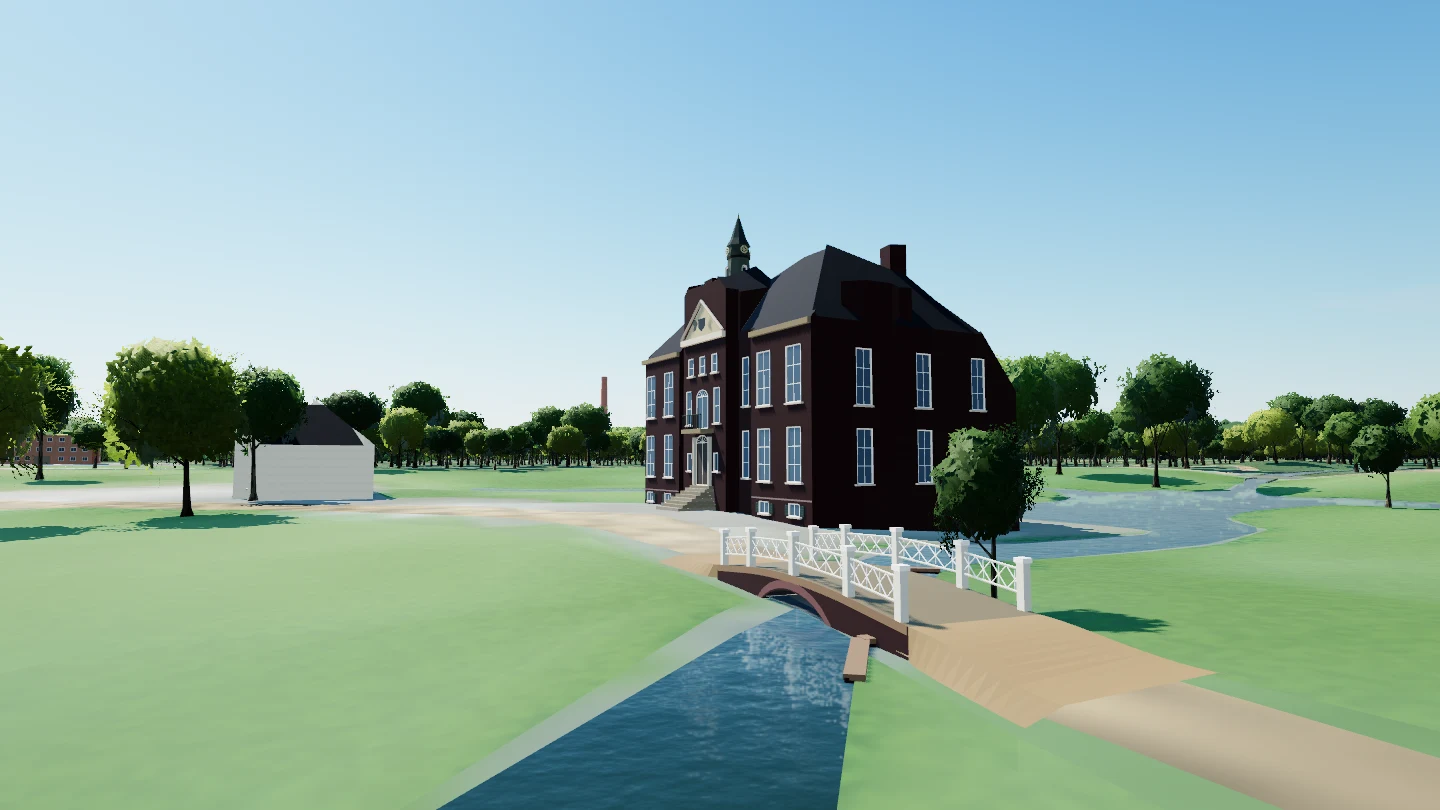
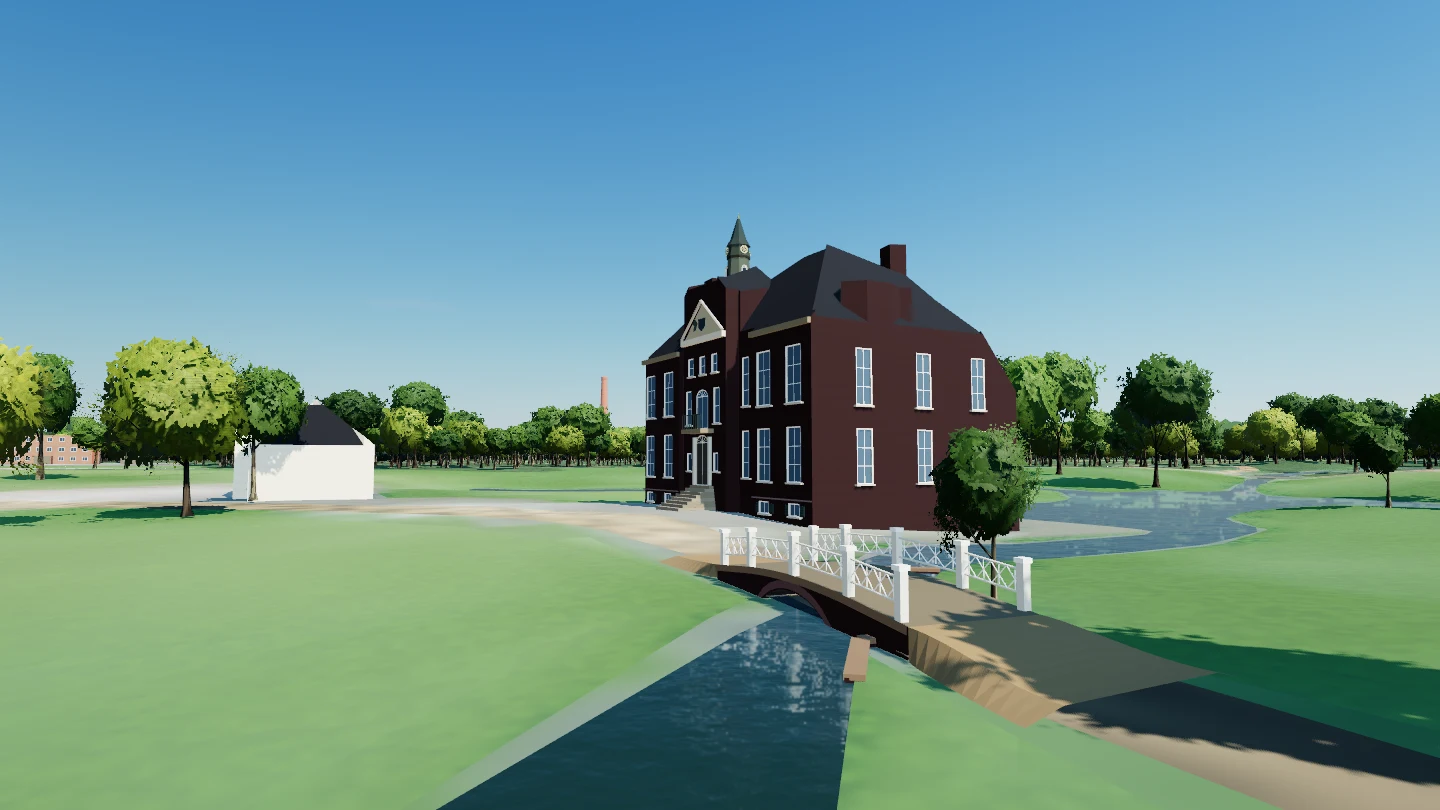
Refresh seasonal Hoekelum screenshots and docs
Updated the four Kasteel Hoekelum seasonal screenshots (spring, summer, autumn, winter) and aligned the README section to match the new visuals. The copy now clarifies a fixed camera with season-specific 13:00 local sun positions, and renames/rephrases captions to reflect weather conditions like spring rain, summer sunshine, wind-driven autumn rain, and winter snowfall.

diff --git a/README.md b/README.md
@@ -83,15 +83,15 @@ Open **Environment** and choose **Live** to follow Ede’s local clock, seasons,
 
 ### Four seasons at Kasteel Hoekelum
 
-All four views use the same camera position and midday lighting. The winter view shows settled snow and a frozen moat.
+All four views use the same camera. The sun is at its 13:00 local position on a representative date in each season.
 
-| Spring | Summer |
+| Spring rain | Summer sunshine |
 | --- | --- |
-| ![Fresh spring foliage around Kasteel Hoekelum and its moat](assets/screenshots/hoekelum-spring.webp) | ![Full green summer canopies around Kasteel Hoekelum and its moat](assets/screenshots/hoekelum-summer.webp) |
+| ![Spring rain over fresh foliage and the moat at Kasteel Hoekelum](assets/screenshots/hoekelum-spring.webp) | ![Clear summer sky above Kasteel Hoekelum and its green trees](assets/screenshots/hoekelum-summer.webp) |
 
-| Autumn | Winter |
+| Wind-driven autumn rain | Winter snowfall |
 | --- | --- |
-| ![Golden autumn trees along the moat at Kasteel Hoekelum](assets/screenshots/hoekelum-autumn.webp) | ![Snow on the roofs and bridge at Kasteel Hoekelum above the frozen moat](assets/screenshots/hoekelum-winter.webp) |
+| ![Wind-driven rain crosses the moat in front of golden autumn trees at Kasteel Hoekelum](assets/screenshots/hoekelum-autumn.webp) | ![Snowflakes fall over the snowy roofs, bridge and frozen moat at Kasteel Hoekelum](assets/screenshots/hoekelum-winter.webp) |
 
 ## Documentation
 
